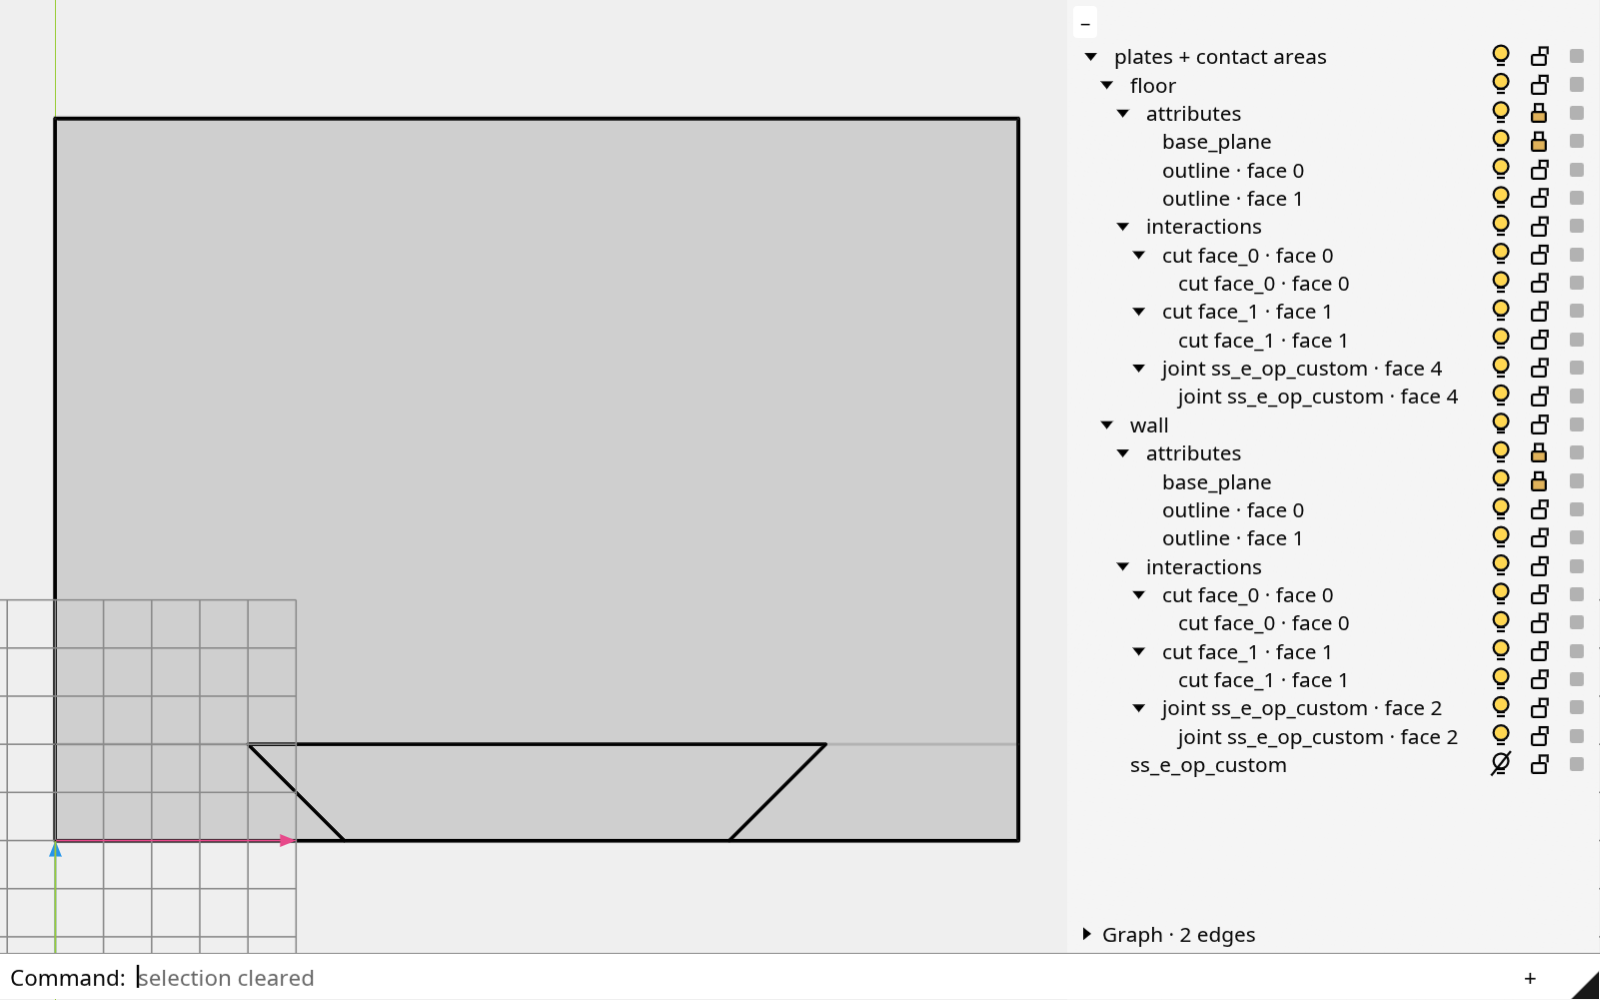
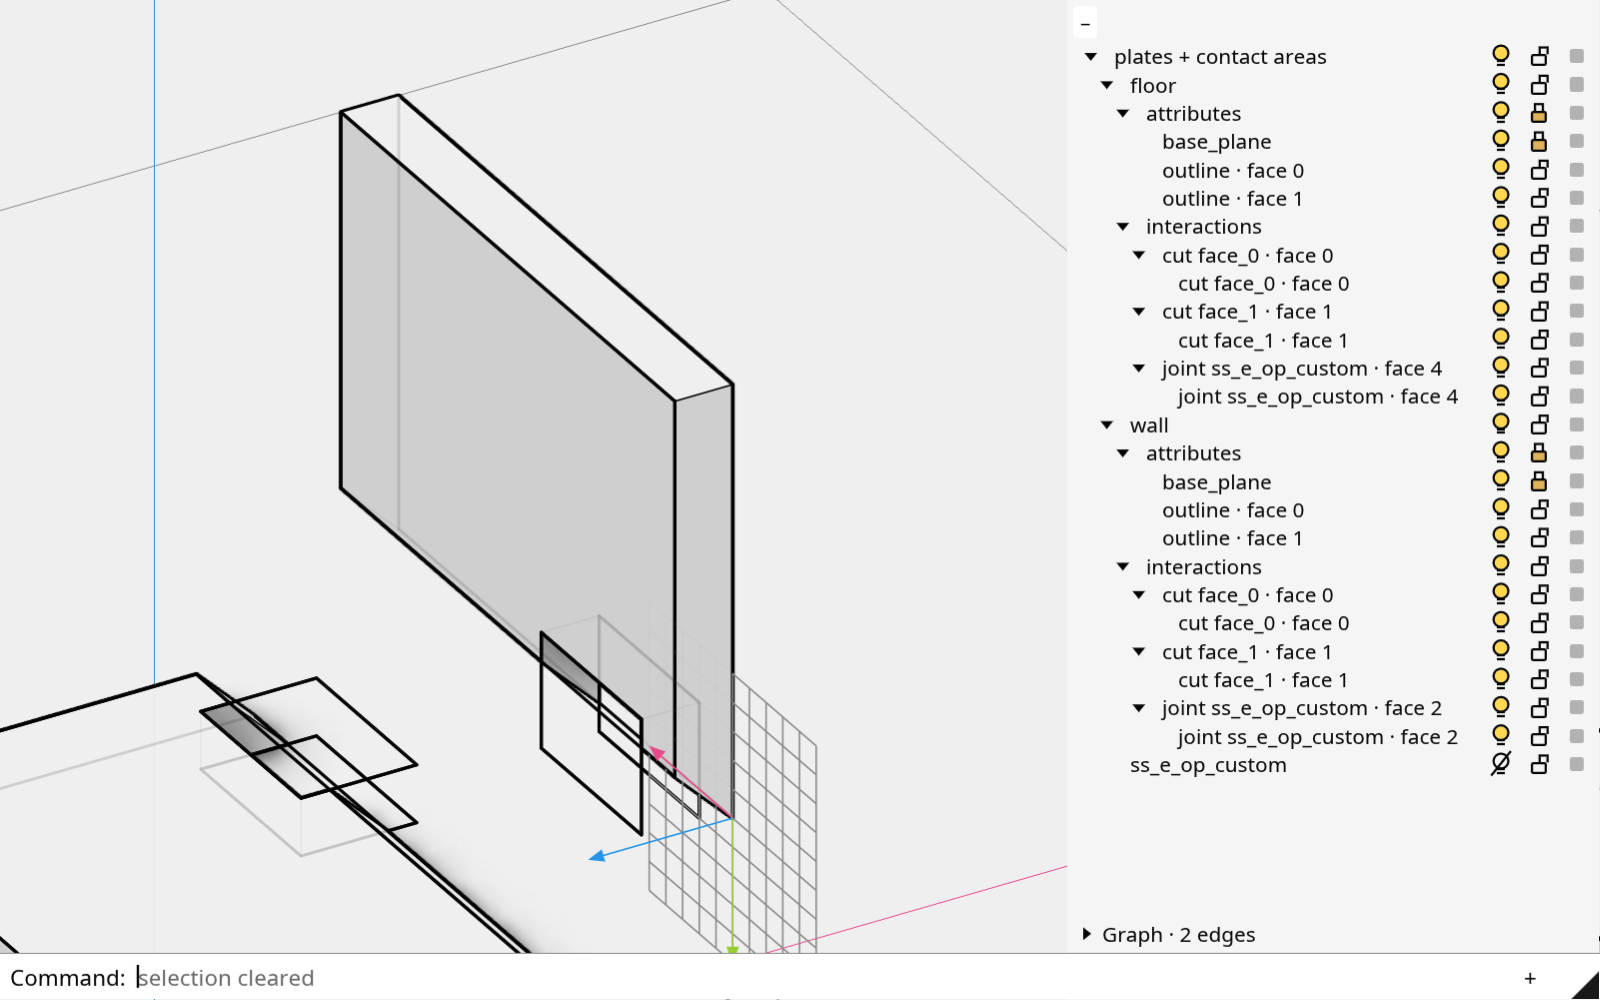
wood: a custom pair merges as 2024 merged it, a line of two points or a rectangle of five
2024's merge_joints switched on the size of a joint's second outline whatever
its type, so a duplicated custom polyline of 2 points was inserted as a line
and one of 5 clipped in as a rectangle, and every other custom outline passed
through uncut. MergeModifier::merges_into_outline treats a type-nothing pair
the same way; the 4-point dovetails of the custom examples therefore cut
nothing, as they did in 2024, and the three side-family custom examples and
the oracle's custom variants now give closed rectangles: a slot into the wall
and a notch into the floor of the mitred pair, a notch into each plate of the
in-plane and the folded pair, each over its own stretch of the joint line.
The oracle's C6 counts a side-family custom pair, which only takes away,
with the side removals; the three custom variants pass C1 to C6.

diff --git a/tests/joint_library.cpp b/tests/joint_library.cpp
@@ -239,11 +239,28 @@ static Polyline zigzag(int fixed_axis, double fixed, int swing_axis, bool z_up) 
     return Polyline(points);
 }
 
-/// The male and female unit outlines of a custom design, face 0 then face 1 of each.
+/// A closed rectangle of five points on one face of the unit box: `fixed_axis` held at `fixed`, spanning -1 to 1 on `swing_axis` and z0 to z1 along z; what 2024 merged of a custom pair, clipped into the plate as a notch.
+static Polyline rectangle(int fixed_axis, double fixed, int swing_axis, double z0, double z1) {
+
+    const std::array<double, 5> swing = {-1.0, 1.0, 1.0, -1.0, -1.0};
+    const std::array<double, 5> z = {z0, z0, z1, z1, z0};
+    std::vector<Point> points;
+
+    for (size_t i = 0; i < 5; i++) {
+        Point p(0.0, 0.0, z[i]);
+        p[fixed_axis] = fixed;
+        p[swing_axis] = swing[i];
+        points.push_back(p);
+    }
+
+    return Polyline(points);
+}
+
+/// The male and female unit outlines of a custom design, face 0 then face 1 of each: the side families keep theirs pair by pair as 2024 did, so they get the rectangles 2024 merged, a notch into each member over its own stretch of the joint line; the top-side and cross families stitch theirs as edge insertions.
 static std::array<std::vector<Polyline>, 2> custom_outlines(const std::string& family) {
 
     if (family == "op")
-        return {std::vector<Polyline>{zigzag(1, 0.5, 0, false), zigzag(1, -0.5, 0, false)}, std::vector<Polyline>{zigzag(0, 0.5, 1, true), zigzag(0, -0.5, 1, true)}};
+        return {std::vector<Polyline>{rectangle(1, 0.5, 0, 0.4, 0.1), rectangle(1, -0.5, 0, 0.4, 0.1)}, std::vector<Polyline>{rectangle(0, 0.5, 1, -0.1, -0.4), rectangle(0, -0.5, 1, -0.1, -0.4)}};
     if (family == "ts")
         return {std::vector<Polyline>{zigzag(0, 0.5, 1, true), zigzag(0, -0.5, 1, true)}, std::vector<Polyline>{zigzag(0, 0.5, 1, true), zigzag(0, -0.5, 1, true)}};
     if (family == "cr") {
@@ -254,8 +271,8 @@ static std::array<std::vector<Polyline>, 2> custom_outlines(const std::string& f
         return {std::vector<Polyline>{male0, male1}, std::vector<Polyline>{female0, female1}};
     }
 
-    // in plane and rotated: the same zigzag on both members, as ss_e_ip_0
-    return {std::vector<Polyline>{zigzag(1, -0.5, 0, true), zigzag(1, 0.5, 0, true)}, std::vector<Polyline>{zigzag(1, -0.5, 0, true), zigzag(1, 0.5, 0, true)}};
+    // in plane and rotated: a notch into the male's edge and one into the female's, over their own stretches
+    return {std::vector<Polyline>{rectangle(1, -0.5, 0, 0.4, 0.1), rectangle(1, 0.5, 0, 0.4, 0.1)}, std::vector<Polyline>{rectangle(1, -0.5, 0, -0.1, -0.4), rectangle(1, 0.5, 0, -0.1, -0.4)}};
 }
 
 static int integer(const std::vector<std::string>& parts, size_t index, int fallback) {
@@ -552,7 +569,7 @@ static void check_conservation(const Built& built, Row& row) {
         fail(row, "C4", fmt::format("the models sum to {:.9g} mm3, their union is {:.9g}", sum, after_volume));
 }
 
-/// C6: the stock one member lost to the joint is what the other now fills inside that stock, or the joint's own key when neither reaches into the other; a side removal fills nothing; a pin joint is measured by C7 instead.
+/// C6: the stock one member lost to the joint is what the other now fills inside that stock, or the joint's own key when neither reaches into the other; a side removal and a custom pair of a side family, which only take away, fill nothing; a pin joint is measured by C7 instead.
 static void check_fit(const Built& built, Row& row) {
 
     if (built.family == "tt")
@@ -567,11 +584,12 @@ static void check_fit(const Built& built, Row& row) {
     const double tolerance_a = ZERO_REL * compute_volume(a.element_geometry_mesh());
     const double tolerance_b = ZERO_REL * compute_volume(b.element_geometry_mesh());
 
-    if (built.library.starts_with("side_removal")) {
+    const bool removal_only = built.library.starts_with("side_removal") || built.library == "ss_e_ip_custom" || built.library == "ss_e_op_custom" || built.library == "ss_e_r_custom";
+    if (removal_only) {
         if (filled_by_a > tolerance_b || filled_by_b > tolerance_a)
-            fail(row, "C6", fmt::format("a side removal fills {:.6g} and {:.6g} mm3 of the other member", filled_by_a, filled_by_b));
+            fail(row, "C6", fmt::format("a removal fills {:.6g} and {:.6g} mm3 of the other member", filled_by_a, filled_by_b));
         if (!(taken_a + taken_b > 0.0))
-            fail(row, "C6", "a side removal took nothing away");
+            fail(row, "C6", "a removal took nothing away");
         return;
     }
 

diff --git a/examples/elements/element_joint_plate_ss_e_op_custom.cpp b/examples/elements/element_joint_plate_ss_e_op_custom.cpp
@@ -3,7 +3,7 @@
 using namespace session_cpp;
 using namespace wood_session;
 
-/// ss_e_op_custom: your own outlines in the joint's unit box on a floor and a wall plate mitred at a right angle, drawn apart.
+/// ss_e_op_custom: your own rectangles in the joint's unit box, a slot into the wall and a notch into the floor of a pair mitred at a right angle, drawn apart.
 int main() {
 
     WoodSession scene("element_joint_plate_ss_e_op_custom");
@@ -20,14 +20,16 @@ int main() {
 
     // the outlines in the joint's unit box, mapped onto the corner the plates share: the floor's thickness along x, the wall's
     // along y, z along the joint line; a pair per side, the wall's at y = 0.5 (face 0) and y = -0.5 (face 1), the floor's at
-    // x = 0.5 (face 0) and x = -0.5 (face 1): a dovetail on the wall, wider at the floor's top, and its mirror on the floor
+    // x = 0.5 (face 0) and x = -0.5 (face 1); as 2024 merged a custom pair, a closed rectangle of five points is clipped into
+    // the plate: here a slot into the wall's bottom edge, 20 past the floor's top, and a notch into the floor's mitred edge,
+    // 40 past the wall's inner face, each over its own stretch of the joint line
     const std::vector<Polyline> male = {
-        Polyline({{-0.5, 0.5, -0.2}, {0.5, 0.5, -0.3}, {0.5, 0.5, 0.3}, {-0.5, 0.5, 0.2}}),
-        Polyline({{-0.5, -0.5, -0.2}, {0.5, -0.5, -0.3}, {0.5, -0.5, 0.3}, {-0.5, -0.5, 0.2}}),
+        Polyline({{-1.0, 0.5, 0.4}, {1.0, 0.5, 0.4}, {1.0, 0.5, 0.1}, {-1.0, 0.5, 0.1}, {-1.0, 0.5, 0.4}}),
+        Polyline({{-1.0, -0.5, 0.4}, {1.0, -0.5, 0.4}, {1.0, -0.5, 0.1}, {-1.0, -0.5, 0.1}, {-1.0, -0.5, 0.4}}),
     };
     const std::vector<Polyline> female = {
-        Polyline({{0.5, 0.5, -0.2}, {0.5, -0.5, -0.3}, {0.5, -0.5, 0.3}, {0.5, 0.5, 0.2}}),
-        Polyline({{-0.5, 0.5, -0.2}, {-0.5, -0.5, -0.3}, {-0.5, -0.5, 0.3}, {-0.5, 0.5, 0.2}}),
+        Polyline({{0.5, -1.0, -0.1}, {0.5, 1.0, -0.1}, {0.5, 1.0, -0.4}, {0.5, -1.0, -0.4}, {0.5, -1.0, -0.1}}),
+        Polyline({{-0.5, -1.0, -0.1}, {-0.5, 1.0, -0.1}, {-0.5, 1.0, -0.4}, {-0.5, -1.0, -0.4}, {-0.5, -1.0, -0.1}}),
     };
 
     // the joint from their contact, added, and passed to each plate in its target order: the wall first, the male of an out-of-plane pair
@@ -48,7 +50,7 @@ int main() {
 
 /*
 |||||||| DESCRIPTION ||||||||
-The out-of-plane design ss_e_op_custom on one pair: a 300 x 400 floor plate and a 300 high wall plate, both 40 thick, meeting at a right angle on a mitred side face; the joint is oriented on their face contact and passed to each plate with add_interaction, the wall its male side and the floor its female, your own outlines in its unit box, here a dovetail on the wall's two faces over the band beside the floor's thickness and its mirror on the floor's two faces over the strip under the wall; as the 2024 library kept it, the custom outlines carry the fabrication type nothing, so the plates stay uncut and each shows its side of the outlines as a feature on both faces, the box mapped onto the corner the plates share; the joint owns no piece and stays hidden; the wall is moved 100 out and 100 up afterwards, along the mitre's normal, so both sides read.
+The out-of-plane design ss_e_op_custom on one pair: a 300 x 400 floor plate and a 300 high wall plate, both 40 thick, meeting at a right angle on a mitred side face; the joint is oriented on their face contact and passed to each plate with add_interaction, the wall its male side and the floor its female, your own outlines in its unit box, the box mapped onto the corner the plates share; as the 2024 library kept a custom pair, the outlines carry the fabrication type nothing and only a closed rectangle of five points, or a line of two, is merged into the plate: here a rectangle on each face of the wall cuts a slot into its bottom edge, 20 past the floor's top, and one on each face of the floor cuts a notch into its mitred edge, 40 past the wall's inner face, each over its own stretch of the joint line; the joint owns no piece and stays hidden; the wall is moved 100 out and 100 up afterwards, along the mitre's normal, so both sides read.
 
 |||||||| DIRECTORY ||||||||
 cd wood_research/wood

diff --git a/examples/elements/element_joint_plate_ss_e_ip_custom.cpp b/examples/elements/element_joint_plate_ss_e_ip_custom.cpp
@@ -3,7 +3,7 @@
 using namespace session_cpp;
 using namespace wood_session;
 
-/// ss_e_ip_custom: your own outlines in the joint's unit box on two plates edge to edge in one plane, drawn apart.
+/// ss_e_ip_custom: your own rectangles in the joint's unit box, a notch into each of two plates edge to edge in one plane, drawn apart.
 int main() {
 
     WoodSession scene("element_joint_plate_ss_e_ip_custom");
@@ -29,15 +29,17 @@ int main() {
     scene.add(left);
     scene.add(right);
 
-    // the outlines in the joint's unit box: x across the seam, y through the thickness, z along the joint line;
-    // one pair per side, its face 0 at y = -0.5 and its face 1 at y = 0.5: a dovetail into the male plate, its mirror into the female
+    // the outlines in the joint's unit box: x across the seam, y through the thickness, z along the joint line; one pair per
+    // side, its face 0 at y = -0.5 and its face 1 at y = 0.5; as 2024 merged a custom pair, a closed rectangle of five points
+    // is clipped into the plate: here a notch half a thickness deep into the male plate's edge over one stretch of the joint
+    // line and one into the female plate's edge over another
     const std::vector<Polyline> male = {
-        Polyline({{0.0, -0.5, 0.2}, {-0.5, -0.5, 0.3}, {-0.5, -0.5, -0.3}, {0.0, -0.5, -0.2}}),
-        Polyline({{0.0, 0.5, 0.2}, {-0.5, 0.5, 0.3}, {-0.5, 0.5, -0.3}, {0.0, 0.5, -0.2}}),
+        Polyline({{-0.5, -0.5, 0.4}, {0.5, -0.5, 0.4}, {0.5, -0.5, 0.1}, {-0.5, -0.5, 0.1}, {-0.5, -0.5, 0.4}}),
+        Polyline({{-0.5, 0.5, 0.4}, {0.5, 0.5, 0.4}, {0.5, 0.5, 0.1}, {-0.5, 0.5, 0.1}, {-0.5, 0.5, 0.4}}),
     };
     const std::vector<Polyline> female = {
-        Polyline({{0.0, -0.5, 0.2}, {0.5, -0.5, 0.3}, {0.5, -0.5, -0.3}, {0.0, -0.5, -0.2}}),
-        Polyline({{0.0, 0.5, 0.2}, {0.5, 0.5, 0.3}, {0.5, 0.5, -0.3}, {0.0, 0.5, -0.2}}),
+        Polyline({{-0.5, -0.5, -0.1}, {0.5, -0.5, -0.1}, {0.5, -0.5, -0.4}, {-0.5, -0.5, -0.4}, {-0.5, -0.5, -0.1}}),
+        Polyline({{-0.5, 0.5, -0.1}, {0.5, 0.5, -0.1}, {0.5, 0.5, -0.4}, {-0.5, 0.5, -0.4}, {-0.5, 0.5, -0.1}}),
     };
 
     // the joint from their contact, added, and passed to each plate in its target order
@@ -58,7 +60,7 @@ int main() {
 
 /*
 |||||||| DESCRIPTION ||||||||
-The in-plane design ss_e_ip_custom on one pair: two 300 x 400 plates 40 thick meeting edge to edge in one plane; the joint takes your own outlines in its unit box, here a dovetail on each face into the male plate and its mirror into the female, is oriented on their face contact and passed to each plate with add_interaction; as the 2024 library kept it, the custom outlines carry the fabrication type nothing, so the plates stay uncut and each shows its side of the outlines as a feature on both faces, the box mapped onto the whole contact, its x across the seam scaled to the thickness; the joint stays hidden; the right plate is moved 120 along the seam's normal afterwards.
+The in-plane design ss_e_ip_custom on one pair: two 300 x 400 plates 40 thick meeting edge to edge in one plane; the joint takes your own outlines in its unit box, is oriented on their face contact and passed to each plate with add_interaction, the box mapped onto the whole contact, its x across the seam scaled to the thickness; as the 2024 library kept a custom pair, the outlines carry the fabrication type nothing and only a closed rectangle of five points, or a line of two, is merged into the plate: here a rectangle on each face of the male plate cuts a notch half a thickness deep into its edge over one stretch of the seam and one on each face of the female cuts the same notch into hers over another; the joint stays hidden; the right plate is moved 120 along the seam's normal afterwards.
 
 |||||||| DIRECTORY ||||||||
 cd wood_research/wood

diff --git a/src/joinery_solver/wood_algorithms/wood_merge_modifier.cpp b/src/joinery_solver/wood_algorithms/wood_merge_modifier.cpp
@@ -167,6 +167,13 @@ bool MergeModifier::merges_into_outline(const InteractionFeaturePlate& joint, bo
     if (types[0].empty())
         return true;
 
+    // a custom pair, written twice with no type as 2024 kept it: 2024 switched on the second copy's size whatever the type, so a line of two points is inserted and a rectangle of five clipped in, and every other outline passes through uncut
+    if (types[0][0] == FabricationType::nothing) {
+        const std::array<std::vector<Polyline>, 2>& outlines = male_or_female ? joint.male_outlines : joint.female_outlines;
+        const size_t marker = outlines[0].size() > 1 ? outlines[0][1].point_count() : 0;
+        return marker == 2 || marker == 5;
+    }
+
     return types[0][0] == FabricationType::edge_insertion || types[0][0] == FabricationType::insert_between_multiple_edges;
 }
 
@@ -469,13 +476,6 @@ Polyline MergeModifier::build_merged_outline(const std::vector<Point>& points, s
     return Polyline(merged);
 }
 
-void MergeModifier::close_corner(Polyline& merged_bottom, Polyline& merged_top) const {
-
-    if (last_id != (int)bottom_points.size())
-        return;
-
-    if (!((first_bottom_segment[0] - first_bottom_segment[1]).magnitude_squared() > distance_squared))
-        return;
 /// True when the point lies on the segment from a to b within the tolerance: closer than its root to the line, between the ends.
 static bool on_segment(const Point& point, const Point& a, const Point& b, double tolerance_squared) {
 
@@ -542,6 +542,13 @@ void MergeModifier::drop_folded_corners(Polyline& merged_bottom, Polyline& merge
     merged_top = Polyline(top);
 }
 
+void MergeModifier::close_corner(Polyline& merged_bottom, Polyline& merged_top) const {
+
+    if (last_id != (int)bottom_points.size())
+        return;
+
+    if (!((first_bottom_segment[0] - first_bottom_segment[1]).magnitude_squared() > distance_squared))
+        return;
 
     const Line first_bottom = Line::from_points(first_bottom_segment[0], first_bottom_segment[1]);
     const Line last_bottom = Line::from_points(last_bottom_segment[0], last_bottom_segment[1]);

diff --git a/src/joinery_solver/wood_algorithms/wood_merge_modifier.h b/src/joinery_solver/wood_algorithms/wood_merge_modifier.h
@@ -120,7 +120,7 @@ private:
         bool male_or_female
     );
 
-    /// True when the side's first outline is an edge insertion (edge_insertion, insert_between_multiple_edges, or untyped), what the outline passes stitch in; a hole, a mill, a slice, a cut, a conic or a drill is not.
+    /// True when the side's first outline is an edge insertion (edge_insertion, insert_between_multiple_edges, or untyped), what the outline passes stitch in, or a custom pair of no type whose second copy has two points or five, the line and the rectangle 2024 merged whatever the type; a hole, a mill, a slice, a cut, a conic or a drill is not.
     static bool merges_into_outline(const InteractionFeaturePlate& joint, bool male_or_female);
 
     /// The merged pair without what the stitching leaves meaningless, both loops kept in step vertex for vertex: a point repeated on a face, or a corner a run folds back over on a face, where the loop reverses along its own edge, as a male outline rising from the mitre corner does on a right-angle pair, goes from both loops when the other face loses no shape by it, its vertex there repeated, folded or on the edge between its neighbours; all within the merge's distance, the contact grid having moved the oriented outlines off the corners by microns. 2024 kept them all and its right-angle loops crossed themselves. The closing points stay in step.

diff --git a/docs/elements/element_joint_plate_ss_e_op.md b/docs/elements/element_joint_plate_ss_e_op.md
@@ -121,6 +121,6 @@ One rectangular notch over the middle half of the joint line, merged into both m
 ![ss_e_op_custom](elements/element_joint_plate_ss_e_op_custom.png)
 ![ss_e_op_custom, the joint](elements/element_joint_plate_ss_e_op_custom_joint.png)
 
-A dovetail tongue on the floor's two faces and its mirror notched out of the wall on its two, given as pairs (face 0, face 1) in the unit box; as the 2024 library kept it, custom outlines carry the fabrication type nothing, so the plates stay uncut and each shows its side of the outlines as a feature on both faces, the box mapped onto the whole contact.
+Your own outlines, given as pairs (face 0, face 1) in the unit box, the floor's thickness along x, the wall's along y, z along the joint line; as the 2024 library kept a custom pair, they carry the fabrication type nothing and only a closed rectangle of five points, or a line of two, is merged into the plate, every other outline passing through uncut and shown as a feature: here a rectangle on each face of the wall cuts a slot into its bottom edge, 20 past the floor's top, and one on each face of the floor cuts a notch into its mitred edge, 40 past the wall's inner face, each over its own stretch of the joint line.
 
 \include{lineno} elements/element_joint_plate_ss_e_op_custom.cpp

diff --git a/docs/elements/element_joint_plate_ss_e_ip.md b/docs/elements/element_joint_plate_ss_e_ip.md
@@ -76,6 +76,6 @@ An eight-point tooth pocket into each edge per division, each reversed, two on t
 
 ![ss_e_ip_custom](elements/element_joint_plate_ss_e_ip_custom.png)
 
-A dovetail on each face into the male plate and its mirror into the female, given as pairs (face 0 at y = -0.5, face 1 at y = 0.5) in the unit box; as the 2024 library kept it, custom outlines carry the fabrication type nothing, so the plates stay uncut and each shows its side of the outlines as a feature on both faces, the box mapped onto the whole contact; the right plate moved 120 off.
+Your own outlines, given as pairs (face 0 at y = -0.5, face 1 at y = 0.5) in the unit box, x across the seam scaled to the thickness, z along it; as the 2024 library kept a custom pair, they carry the fabrication type nothing and only a closed rectangle of five points, or a line of two, is merged into the plate, every other outline passing through uncut and shown as a feature: here a rectangle on each face cuts a notch half a thickness deep into the male plate's edge over one stretch of the seam, and one into the female's over another.
 
 \include{lineno} elements/element_joint_plate_ss_e_ip_custom.cpp
